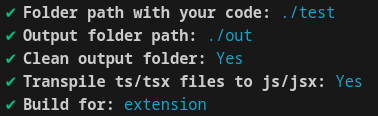
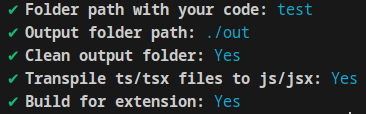
docs

diff --git a/src/index.ts b/src/index.ts
@@ -30,16 +30,16 @@ async function main() {
   if (!Object.keys(options).length) {
     await Input.text("dir", "Folder path with your code:", "./src");
     await Input.text("outDir", "Output folder path:", "./out");
-    await Input.confirm("clean", "Clean output folder:", false);
-    await Input.confirm("tsc", "Transpile ts/tsx files to js/jsx:", false);
-    await Input.confirm("extention", "Build for extension:", false);
+    await Input.confirm("clean", "Clean output folder:", true);
+    await Input.confirm("tsc", "Transpile ts/tsx files to js/jsx:", true);
+    await Input.confirm("extention", "Build for extension:", true);
   }
   if (!Input.data.dir && !options.dir) {
     await Input.text("dir", "Folder path with your code:", "./src");
   }
   options = Object.assign(options, Input.data);
   config = Object.assign(config, options);
-  
+
   await snipgen(options.dir!, config);
 }
 

diff --git a/src/templates/index.ts b/src/templates/index.ts
@@ -7,8 +7,14 @@ export const extention = {
   contributes: {
     snippets: [] as SnippetI[]
   },
-
-  categories: ["Snippets"]
+  scrips: {
+    build: "vsce package",
+    publish: "vsce publish"
+  },
+  categories: ["Snippets"],
+  devDependencies: {
+    "vsce": "^2.15.0"
+  }
 };
 
 interface SnippetI {

diff --git a/tsup.config.ts b/tsup.config.ts
@@ -6,5 +6,7 @@ export default defineConfig({
   clean: true,
   minify: true,
   treeshake: true,
-  outDir: "bin"
+  outDir: "bin",
+  silent: true,
+  cjsInterop: true
 });

diff --git a/README.md b/README.md
@@ -1,16 +1,19 @@
-## Snipgen - cli tool for making vs-code snippets (in development)
+# Snipgen - cli tool for making vs-code snippets (in development)
 
-### How to use
+## How to use
 
-Name files prefix.name.extention
+1. Name files like that: [prefix].[name].[extention]
+  prefix - comibination of characters triggers template
+  name - name of the template
+  extention - file extention for language it was made
 
-prefix - comibination of characters triggers template
-name - name of the template
-extention - file extention for language it was made
+2. Write your code in this file
 
-```bash
-snipgen
-```
+3. Run command
+
+ ```bash
+ npx snipgen
+ ```
 
 ![cli](./images/cli.png)
 
